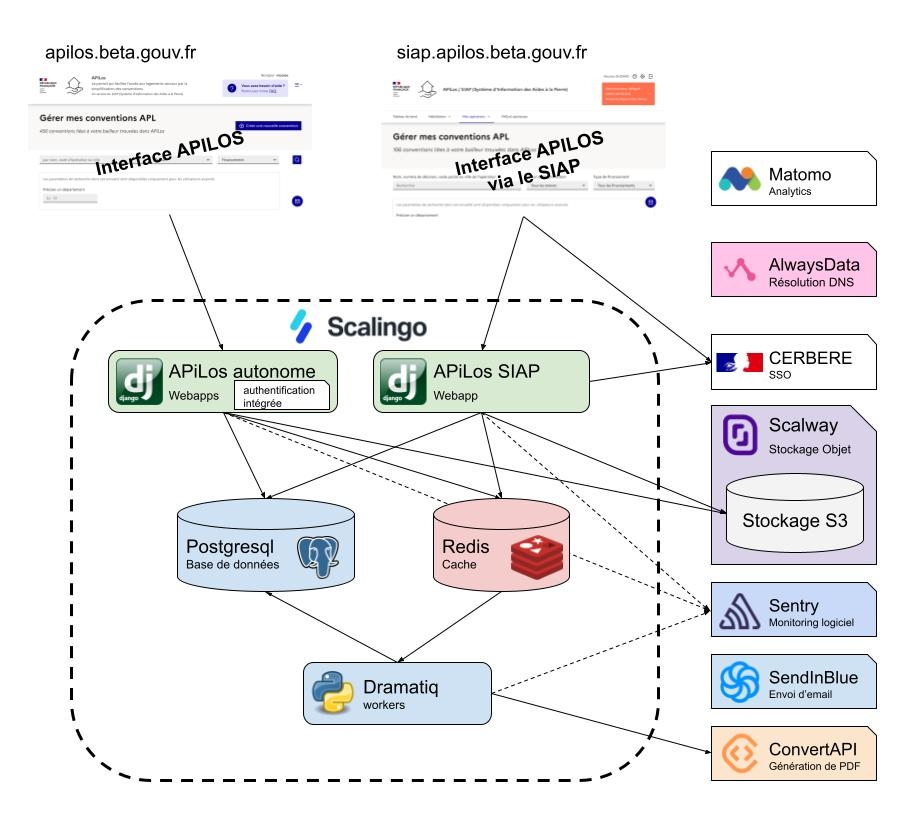
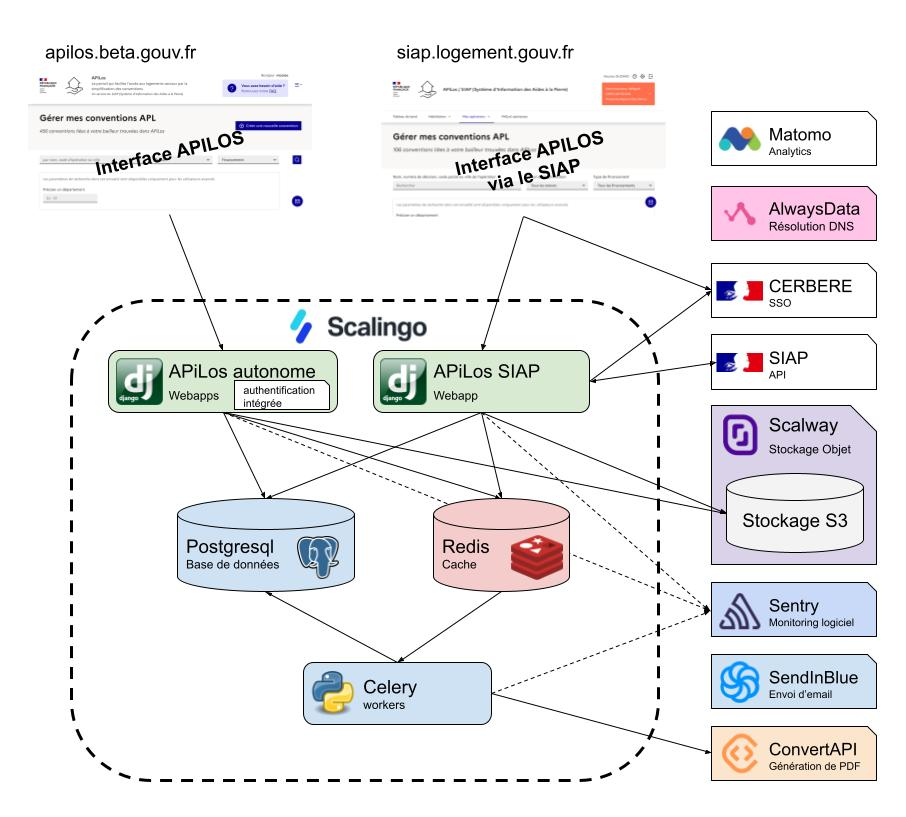
update doc with new schema and environment summary

diff --git a/SIAPClient.md b/SIAPClient.md
@@ -1,5 +1,18 @@
 # Documentation des interactions SIAP APiLos
 
+[Tableau de bord des développements communs entre SIAP et APiLos](https://airtable.com/shruWiCQNMkq6Wggk/tblNIOUJttSKoH866)
+
+## Environnements
+
+| Environnement  | URL SIAP          | URL APiLos version SIAP | URL APiLos autonome | Propos de l'environement |
+| :--- | :--- |:--- |:--- |:--- |
+| Production | https://siap.logement.gouv.fr (MTE) | https://apilos.logement.gouv.fr | https://apilos.beta.gouv.fr | Partagé avec la version APiLos autonome de production |
+| Pilote | https://prehabilitation.siap.logement.gouv.fr (MTE) | ❌ | ❌ | Préhabilitation et recette de la reprise de donnée, pas d'intérêt d'avoir une plateforme APiLos en mirroir |
+| Ecole | https://ecole.siap.logement.gouv.fr (MTE) | https://siap-ecole.apilos.beta.gouv.fr | ❌ | Utilisé pour les formations |
+| Préproduction | https://preprod.siap.logement.gouv.fr (MTE) | ❌ | ❌ | Peu d'intérêt d'avoir un environnement mirroir APiLos puisse que ce cas est testé sur tous les autres environnements. Proposition : supprimer le lien avec la plateforme APiLos car l'environnement actuellement utilisé est déjà utilisé par la plateforme recette |
+| Recette | https://minlog-siap.gateway.recette.sully-group.fr (Sully) | https://siap-recette.apilos.beta.gouv.fr | ❌ | Rectte métier |
+| IntAPI | https://minlog-siap.gateway.intapi.recette.sully-group.fr (Sully) | https://siap-integration.apilos.beta.gouv.fr | https://staging.apilos.beta.gouv.fr | Utilisé pour le développement et la validation des fonctionnalités impliquant les 2 plateformes Partagé avec la version APiLos autonome de staging |
+
 ## Cas d'utilisation
 
 ### Autentification au SIAP ou APiLos via CERBERE
@@ -99,26 +112,66 @@ sequenceDiagram
 
 ```
 
+## Interprétation des Habilitations SIAP
 
-## Pour tester SIAP Client dans un shell :
+Les habilitations sont interprétées de 3 manières :
 
-Ouvrir un shell django
+1. Les Bailleurs
 
-Puis test de quelques appels:
+* Maitre d'ouvrage personne moral
+* Maitre d'ouvrage personne physique
+
+Les utilisateurs de type bailleur sont autoirisés à voir et modifier les opérations, conventions et objects associés appartenant à l'entité maitrise d'ouvrage définit par l'habilitation active.
+
+2. Les instructeurs (Service gestionaire)
+
+* Service gestionnaire
+
+Les utilisateurs de type instructeur sont autoirisés à voir et modifier les opérations, conventions et objects associés appartenant à l'entité administrative définit par l'habilitation active.
+
+3. Les administrateurs
+
+* Service départemental
+* Direction régionale
+* Administration centrale
+
+Les utilisateurs de type administrateur sont autoirisés à voir et modifier les opérations, conventions et objects associés selon la géographie du profile : le département, la région ou la france entièrte définit par l'habilitation active.
+
+## Pour tester le Client de l'API du SIAP dans un shell (Appel de l'application SIAP à partir du backend de l'application APiLos)
+
+Récupérer l'email de l'utilisteur utilisé pour les tests : généralement votre propre email utilisé pour se connecter à CERBERE
+Récupérer l'ID de l'habilitation utilisé pour les tests : les ID sont accéssibles en inspectant les liens du menu permettant de changer d'habilitation en haut à droite de l'écran
+
+Ouvrir un shell django, puis tester quelques appels:
 
 ```python
->>> from siap.siap_client.client import SIAPClient
->>> SIAPClient.get_instance().get_habilitations(user_login='nicolas.oudard@beta.gouv.fr')
->>> SIAPClient.get_instance().get_menu(user_login='nicolas.oudard@beta.gouv.fr', habilitation_id=5)
->>> SIAPClient.get_instance().get_operation(user_login='nicolas.oudard@beta.gouv.fr', habilitation_id=27, operation_identifier='20221000003')
+from siap.siap_client.client import SIAPClient
+SIAPClient.get_instance().get_habilitations(user_login='user@domain.com')
+SIAPClient.get_instance().get_menu(user_login='user@domain.com', habilitation_id=5)
+SIAPClient.get_instance().get_operation(user_login='user@domain.com', habilitation_id=27, operation_identifier='20221000003')
 ```
 
-## Questions ouvertes pour plus tard :
+## Pour tester le Client de l'API d'APiLos dans un shell (Appel de l'application APiLos à partir du backend de l'application SIAP)
 
-- [ ] Comment retrouver les paramètres propres à APiLos dans la version SIAP
-- [ ] Deloguer sur le SIAP / Apilos doit délogguer des 2 plateformes
+Récupérer l'email de l'utilisteur utilisé pour les tests : généralement votre propre email utilisé pour se connecter à CERBERE
+Récupérer l'ID de l'habilitation utilisé pour les tests : les ID sont accéssibles en inspectant les liens du menu permettant de changer d'habilitation en haut à droite de l'écran
 
-## token exemple
+Ouvrir un shell django, pour générer un Token JWT :
+
+```python
+from siap.siap_client.client import build_jwt
+build_jwt(user_login="nicolas.oudard@beta.gouv.fr", habilitation_id=31)
+```
+
+Accéder à l'interface de test : <HOST>/api-siap/v0/schema-ui/#/statistics/convention_kpi_list
+
+Cliquez sur le bouton `Authorize` à droite de d'écran et copier le JWT token
+
+L'ensemble des fonctions de la page sont maintenant testables
+
+⚠ Attention, le token JWT n'est valide que 5 minutes
+
+### Exemple du contenu du token JWT généré par la fonction build_jwt
 
 ```json
 {
@@ -126,7 +179,15 @@ Puis test de quelques appels:
   "exp": 2655458448,
   "token_type": "access",
   "jti": "c14f318c99024a398a39281d3827e612",
-  "user-login": "nicolas.oudard@beta.gouv.fr",
+  "user-login": "user@domain.com",
   "habilitation-id": 6
 }
 ```
+
+Il est possible aussi de générer de token via un site tel que https://jwt.io/ et en utilisant la clé JWT_SIGN_KEY pour signer le token
+
+## Questions ouvertes pour plus tard :
+
+- [ ] Comment retrouver les paramètres propres à APiLos dans la version SIAP
+- [ ] Deloguer sur le SIAP / Apilos doit délogguer des 2 plateformes
+

diff --git a/README.md b/README.md
@@ -29,7 +29,7 @@ plus d'information sur les interactions entre les 2 plateformes sont disponibles
 
 Cependant, certaines briques logicielles sont partagées (voir l'illustration ci-dessous)
 
-![Architecture APilos](static/img/ArchitectureAPilos.jpg)
+![Architecture APilos](static/img/ArchitectureAPiLos.jpg)
 
 ### Qualité de code
 
